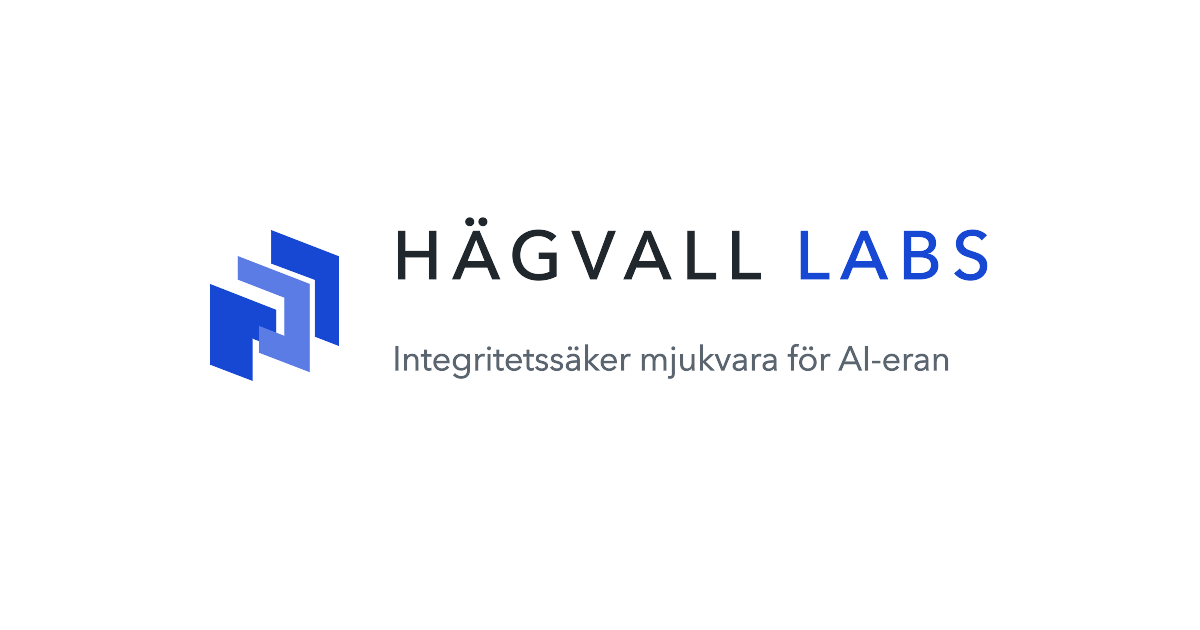
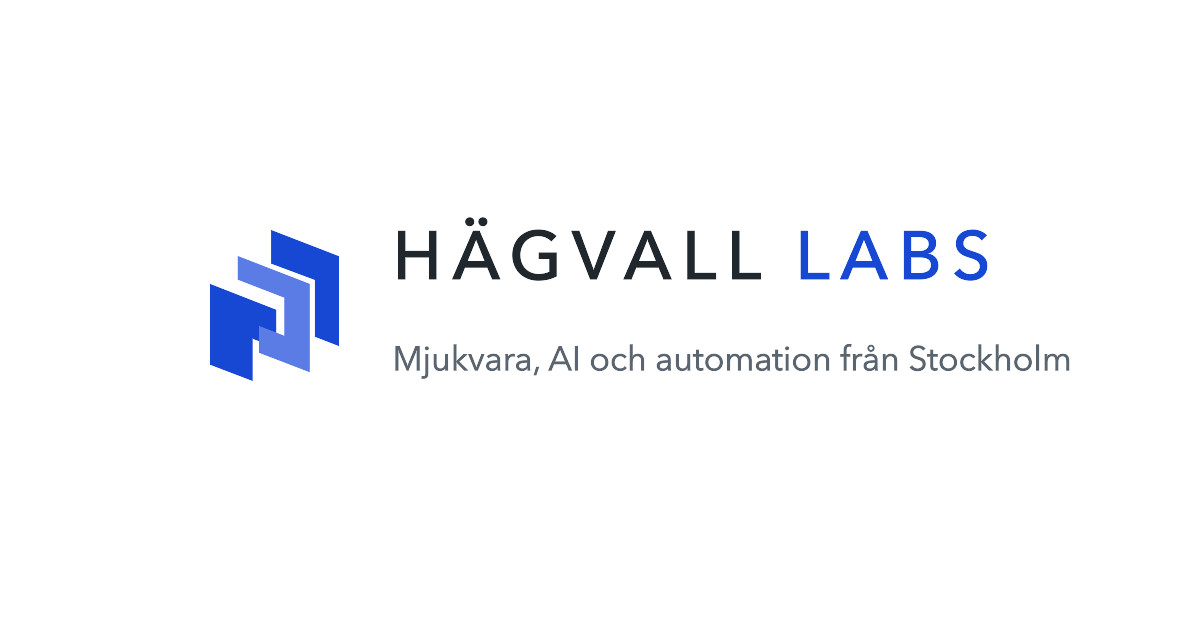
Reposition the home meta and social cards around software, AI and automation
The home title, description and OG copy, the manifest and the generated
social cards now lead with software, AI and automation from Stockholm
instead of privacy-first AI software. The manifest theme color follows the
cobalt band. serve-prod.ts takes an optional PORT for audits when 4173 is
taken.

Changed region(s): [[0.3392, 0.5429, 0.8942, 0.6032]]

diff --git a/src/routes/en/index.tsx b/src/routes/en/index.tsx
@@ -7,12 +7,12 @@ export const Route = createFileRoute('/en/')({
     pageHead({
       lang: 'en',
       page: 'home',
-      title: 'Privacy-First AI Software | Hägvall Labs',
+      title: 'Hägvall Labs | Software, AI and Automation',
       description:
-        'Hägvall Labs is Joel Hägvall’s company in Stockholm. Self-hosted tools that protect personal data before text reaches AI systems, logs or analytics.',
-      ogTitle: 'Hägvall Labs | Privacy-First AI Software',
+        'Joel Hägvall’s company in Stockholm. I build software, APIs and AI automation for businesses, and Maskera, which removes personal data before text reaches AI.',
+      ogTitle: 'Hägvall Labs | Software, AI and Automation',
       ogDescription:
-        'Privacy-first software for the AI era. Self-hosted, built in Sweden.',
+        'Software, APIs and AI automation with privacy at the core. Built in Stockholm.',
       jsonLd: homeJsonLd(),
     }),
   component: () => <HomePage lang="en" />,

diff --git a/src/routes/index.tsx b/src/routes/index.tsx
@@ -7,12 +7,12 @@ export const Route = createFileRoute('/')({
     pageHead({
       lang: 'sv',
       page: 'home',
-      title: 'Integritetssäker AI-mjukvara | Hägvall Labs',
+      title: 'Hägvall Labs | Mjukvara, AI och automation',
       description:
-        'Hägvall Labs är Joel Hägvalls bolag i Stockholm. Self-hosted mjukvara som skyddar personuppgifter innan text når AI-system, loggar eller analys.',
-      ogTitle: 'Hägvall Labs | Integritetssäker AI-mjukvara',
+        'Joel Hägvalls bolag i Stockholm. Jag bygger mjukvara, API:er och AI-automation åt företag, och Maskera, som tar bort personuppgifter innan text når AI.',
+      ogTitle: 'Hägvall Labs | Mjukvara, AI och automation',
       ogDescription:
-        'Integritetssäker mjukvara för AI-eran. Self-hosted, byggd i Sverige.',
+        'Mjukvara, API:er och AI-automation med integriteten i grunden. Byggt i Stockholm.',
       jsonLd: homeJsonLd(),
     }),
   component: () => <HomePage lang="sv" />,

diff --git a/scripts/serve-prod.ts b/scripts/serve-prod.ts
@@ -221,8 +221,12 @@ function staticFilePath(pathname: string): string | null {
   }
 }
 
+// Default 4173, overridable with PORT when something else already owns it
+// (audit.sh and agent-checks.sh take the matching BASE env).
+const port = Number(process.env.PORT ?? 4173)
+
 Bun.serve({
-  port: 4173,
+  port,
   async fetch(req) {
     const url = new URL(req.url)
     const filePath = url.pathname === '/' ? null : staticFilePath(url.pathname)
@@ -279,4 +283,4 @@ Bun.serve({
   },
 })
 
-console.log('prod server (gzip) on http://localhost:4173')
+console.log(`prod server (gzip) on http://localhost:${port}`)

diff --git a/scripts/build-brand.ts b/scripts/build-brand.ts
@@ -265,8 +265,8 @@ for (const v of variants) {
 }
 
 // Social
-const ogSv = socialCard('Integritetssäker mjukvara för AI-eran')
-const ogEn = socialCard('Privacy-first software for the AI era')
+const ogSv = socialCard('Mjukvara, AI och automation från Stockholm')
+const ogEn = socialCard('Software, AI and automation from Stockholm')
 png(ogSv, 1200, 630, join(OUT, 'social/og-image-sv.png'))
 png(ogEn, 1200, 630, join(OUT, 'social/og-image-en.png'))
 png(symbolTile(1024, 'color', WHITE, 0.6), 1024, 1024, join(OUT, 'social/avatar-white-1024.png'))
